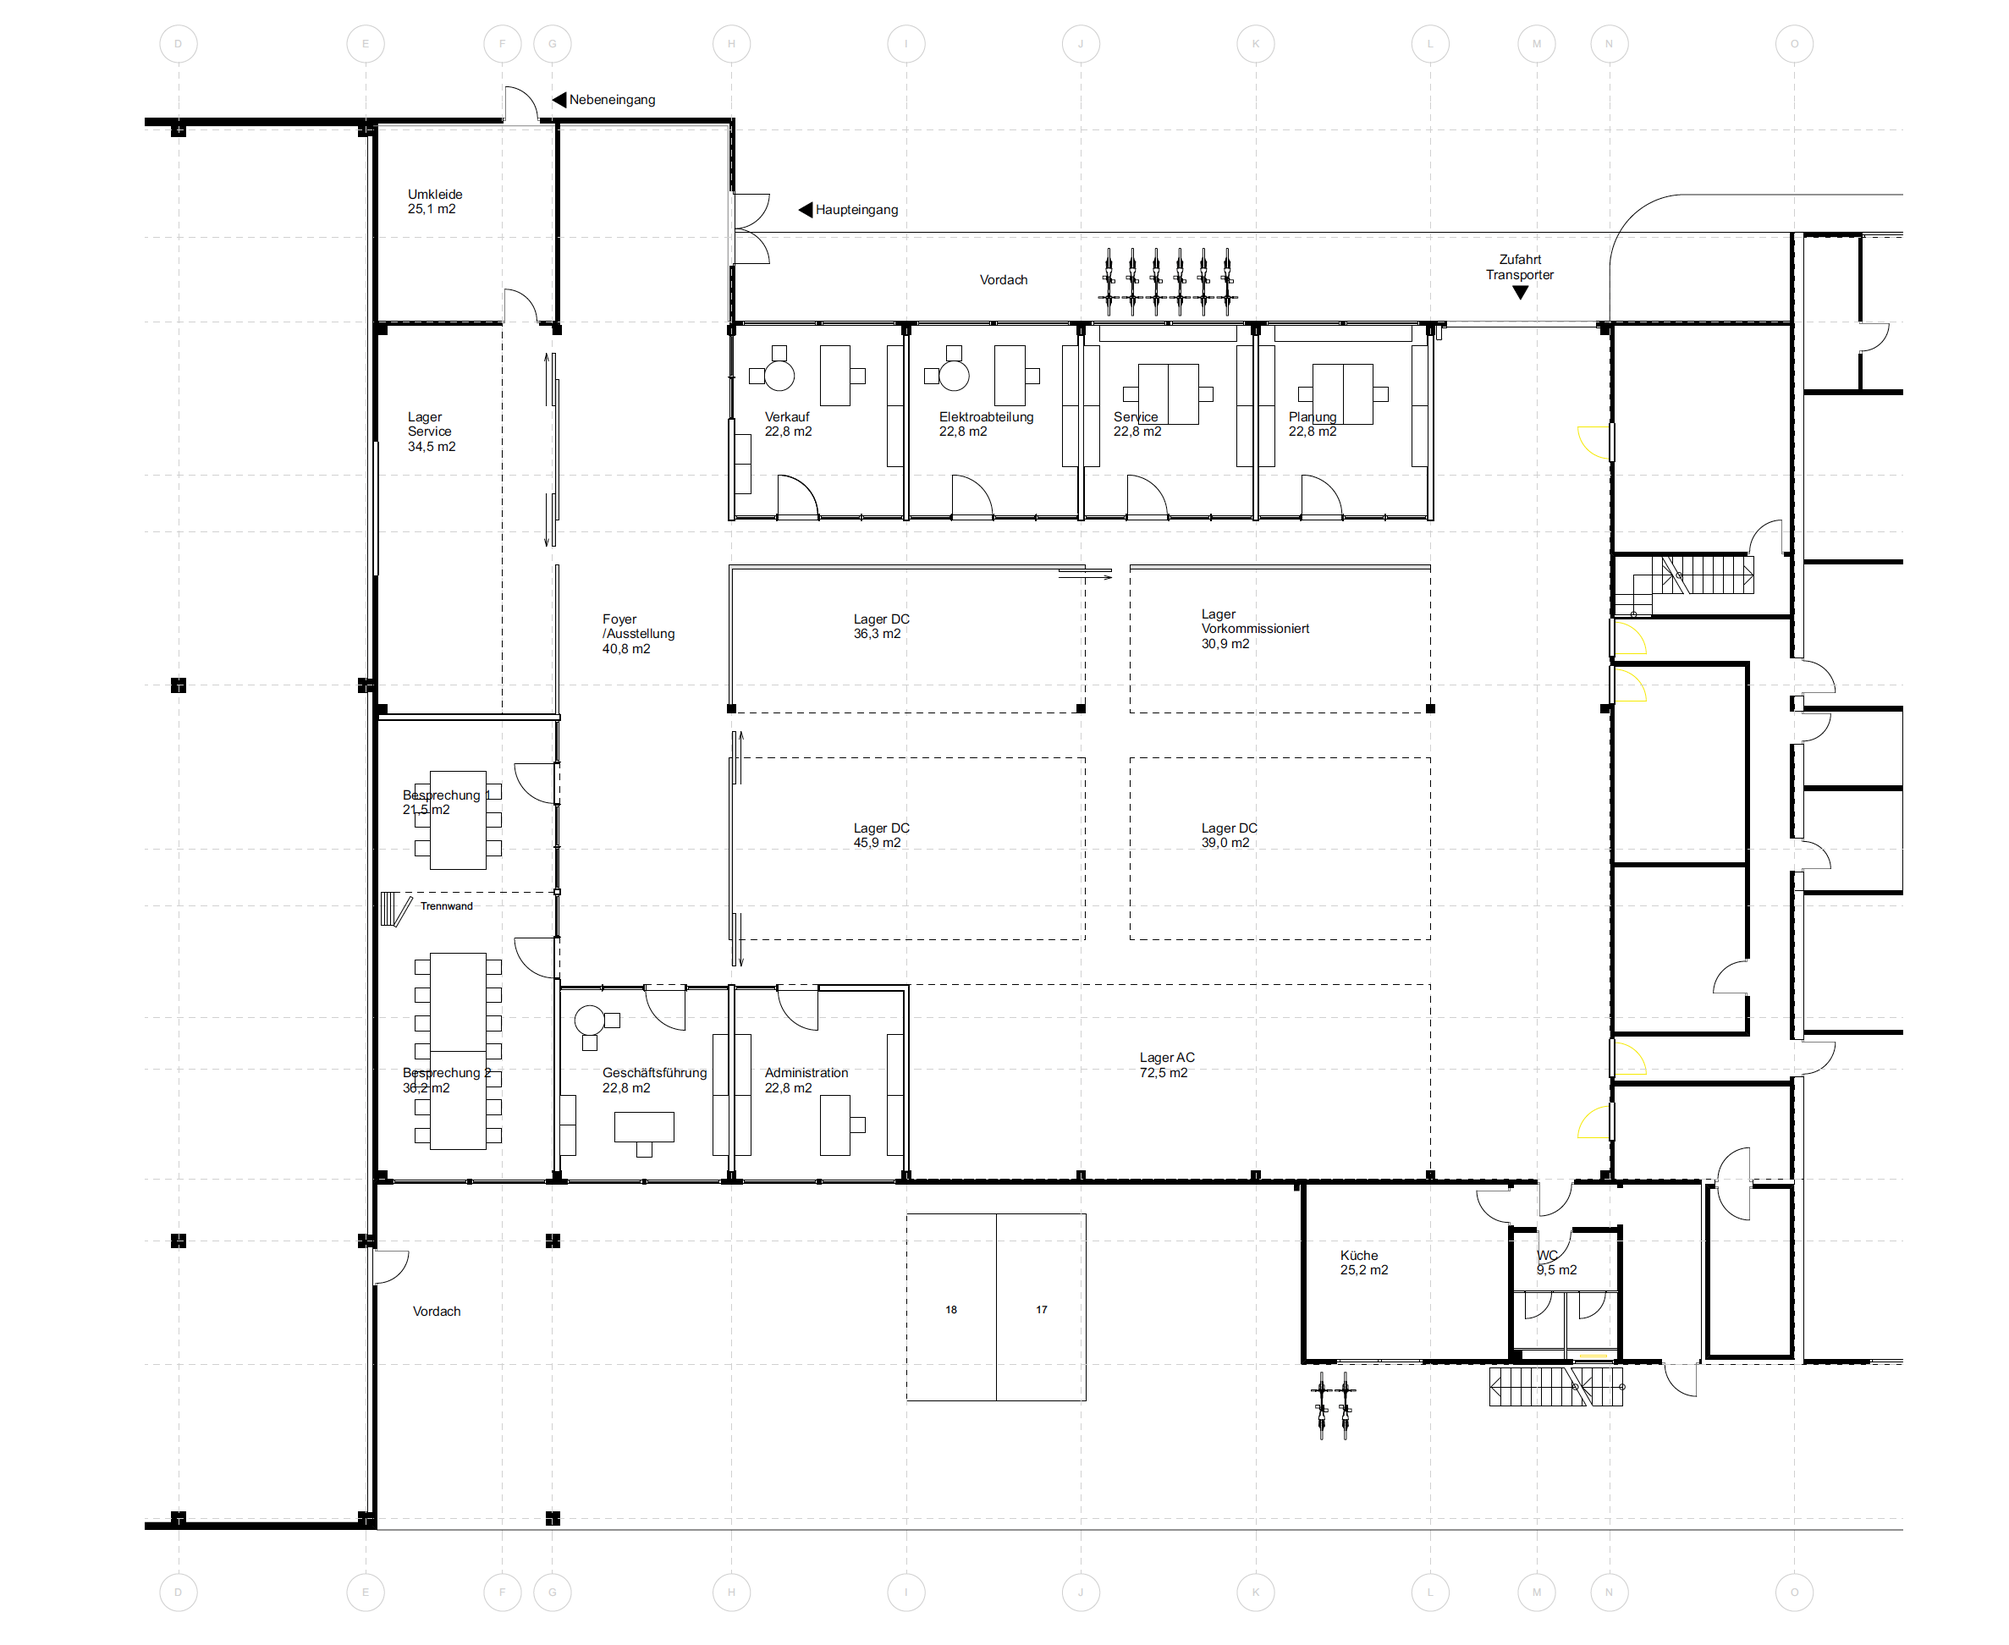
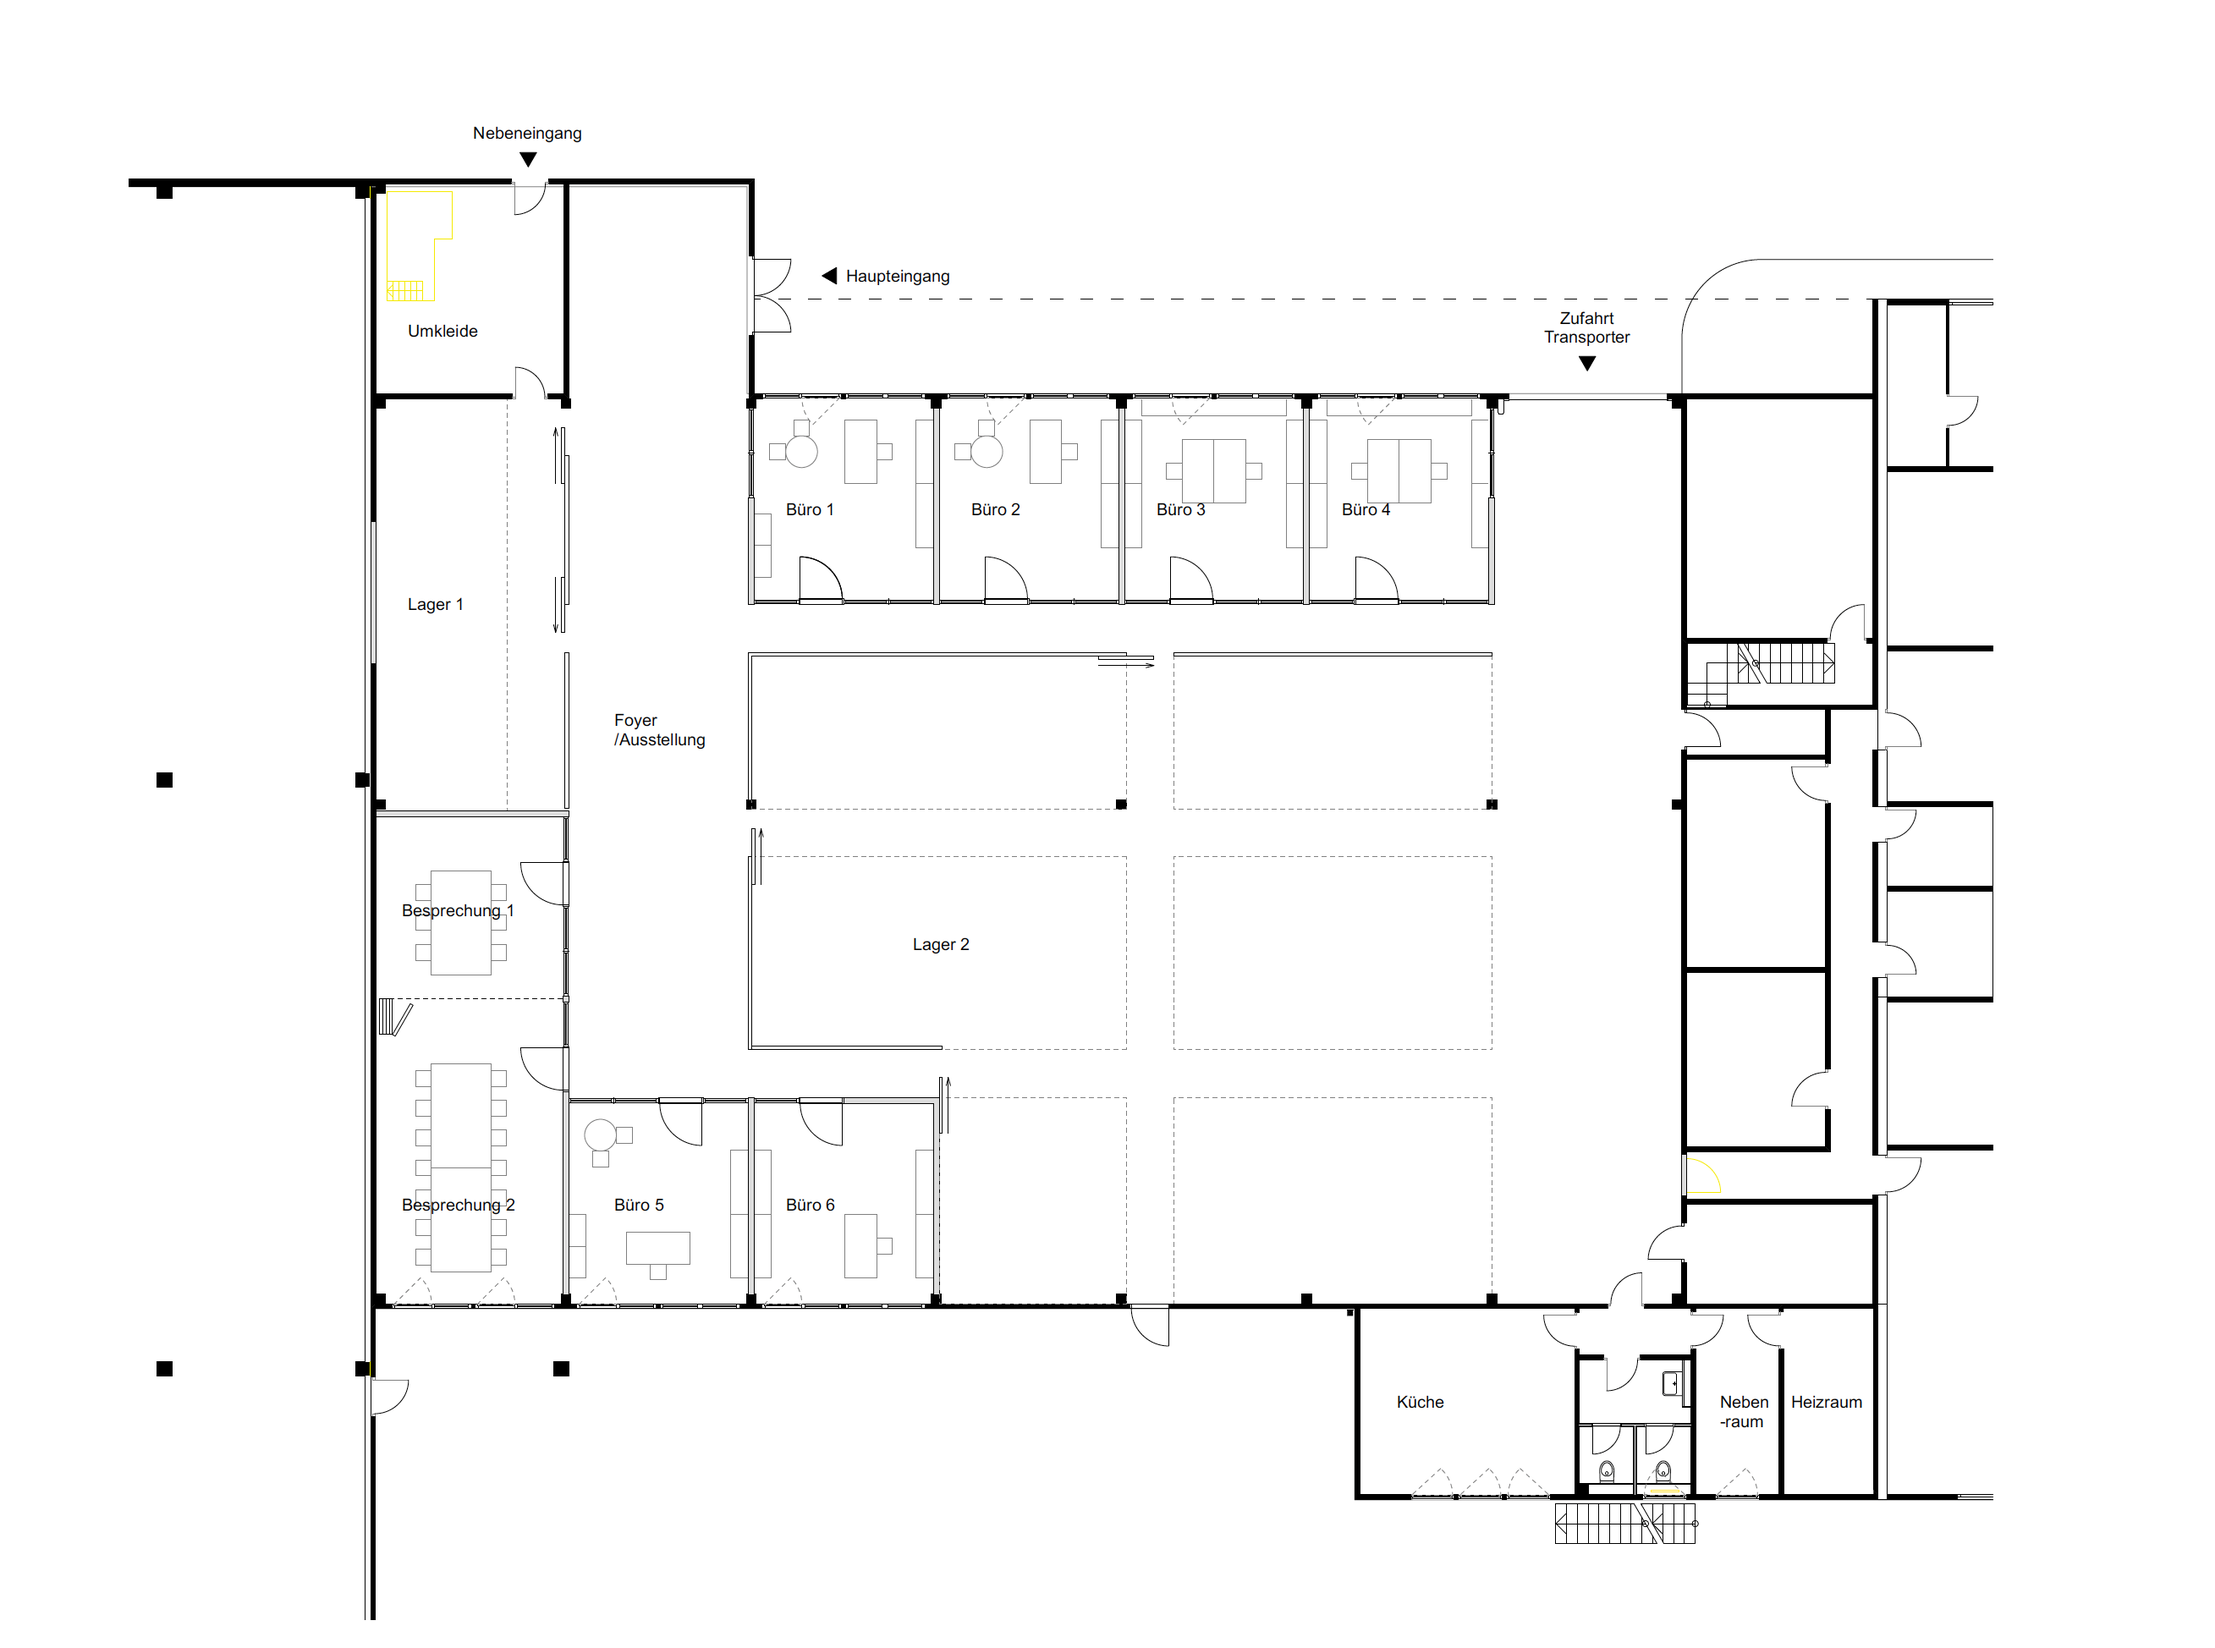
projektzeichnungen

diff --git a/public/de/projekte/druckerei/druckerei/index.html b/public/de/projekte/druckerei/druckerei/index.html
@@ -29,6 +29,9 @@
             <a href="/de/studio/">Studio</a>
           </li>
           <li >
+            <a href="/de/leistungen/">Leistungen</a>
+          </li>
+          <li >
             <a href="/de/projekte/">Projekte</a>
           </li>
       </ul>
@@ -105,6 +108,13 @@
 <br>
 <p>Der Umbau einer ehemaligen Druckerei zu einem Firmensitz verbindet bestehende industrielle Strukturen mit neuen funktionalen Anforderungen. Büro- und Lagerflächen wurden klar organisiert und behutsam in den Bestand integriert.</p>
 <br>
+<!--
+<figure style="margin: 0; width: fit-content;">
+  <img src="/images/projekte/druckerei/gr_bv.png" alt="Grundriss Bestand" style="width: 100%; height: auto; display: block; border-radius: 8px;">
+  <figcaption style="font-size: 12px; text-align: right; margin-top: 0.3em; width: 100%;">
+   Grundriss Bestand
+  </figcaption>
+</figure>-->
 <p>Kategorie: Bestand</p>
 <p>Nutzung: Firmensitz (Büros &amp; Lager)</p>
 <p>Ort: Königsbrunn</p>
@@ -190,6 +200,18 @@
       <a href="/images/projekte/druckerei/gr_af.png" class="gallery-item">
         <img src="/images/projekte/druckerei/gr_af.png" 
              alt="Grundriss - Neuplanung | Zeichnung: Bebynek Architektur" 
+             loading="lazy">
+      </a>
+
+    
+  
+    
+
+    
+
+      <a href="/images/projekte/druckerei/gr_bv.png" class="gallery-item">
+        <img src="/images/projekte/druckerei/gr_bv.png" 
+             alt="Grundriss - Bestand | Zeichnung: Bebynek Architektur" 
              loading="lazy">
       </a>
 

diff --git a/public/de/energieberatung/index.html b/public/de/energieberatung/index.html
@@ -29,6 +29,9 @@
             <a href="/de/studio/">Studio</a>
           </li>
           <li >
+            <a href="/de/leistungen/">Leistungen</a>
+          </li>
+          <li >
             <a href="/de/projekte/">Projekte</a>
           </li>
       </ul>
@@ -84,6 +87,7 @@
 <p>Die Baubranche ist für einen erheblichen Anteil des CO₂-Ausstoßes und der Müllproduktion verantwortlich. Viele Gebäude werden abgerissen und neu gebaut, weil dies oft schneller und einfacher erscheint. Doch die ökologischen Folgen sind erheblich – insbesondere die sogenannte „graue Energie“, die im Bauprozess von Materialien und Gebäuden steckt, muss berücksichtigt werden.</p>
 <p>Eine energetische Sanierung ermöglicht es, bestehende Gebäude effizienter zu nutzen, den Energieverbrauch zu senken, Kosten zu sparen und unabhängiger von steigenden Energiepreisen zu werden. Oft reichen schon einige gezielte Maßnahmen, um den Wohnkomfort deutlich zu erhöhen und gleichzeitig hohe Einsparungen bei den Energiekosten zu erzielen.</p>
 <br>
+<!--
 <p><strong>Meine Leistungen</strong></p>
 <p>Für Bestandsgebäude biete ich an:</p>
 <ul>
@@ -120,7 +124,8 @@
 <br>
 <p><strong>Kontakt</strong></p>
 <p>Vereinbaren Sie ein unverbindliches Erstgespräch, um Ihre Möglichkeiten zu besprechen.</p>
-<p><a href="/de/kontakt/">Jetzt Energieberatung anfragen</a></p>
+<p><a href="/de/kontakt/">Jetzt Energieberatung anfragen</a>
+&ndash;&gt;</p>
 
         
 

diff --git a/public/de/studio/index.html b/public/de/studio/index.html
@@ -29,6 +29,9 @@
             <a href="/de/studio/">Studio</a>
           </li>
           <li >
+            <a href="/de/leistungen/">Leistungen</a>
+          </li>
+          <li >
             <a href="/de/projekte/">Projekte</a>
           </li>
       </ul>
@@ -81,7 +84,7 @@
         <p style="font-size: 30px; font-weight: bold;">Studio</p>
 <p><strong>Bebynek Architektur</strong> ist ein Architekurbüro mit Schwerpunkt auf Denkmalpflege, Bauen im Bestand und Nachhaltigkeit.</p>
 <p>Die Projekte zeichnen sich durch sorgfältige Analyse, präzise Planung und eine reduzierte, zeitlose Formensprache aus. Ziel ist es, Bestehendes behutsam an heutige Anforderungen anzupassen und langfristig nutzbar zu machen.</p>
-<p>Die internationale Ausbildung der Büroinhaberin <a href="https://linkedin.com/in/aga-bebynek-bielanska-413b52172">Aga Bebynek-Bielanska</a> und ihre langjährige Berufserfahrung in Deutschland und Europa prägen die Arbeitsweise des Büros - präzise, zukunftsfähig und kontextbezogen.
+<p>Die internationale Ausbildung der Büroinhaberin Aga Bebynek-Bielanska <a href="https://linkedin.com/in/aga-bebynek-bielanska-413b52172">(LinkedIn Profil)</a> und ihre langjährige Berufserfahrung in Deutschland und Europa prägen die Arbeitsweise des Büros - präzise, zukunftsfähig und kontextbezogen.
 <br>
 <br></p>
 <figure style="margin: 0; width: fit-content;">

diff --git a/public/de/architektur/index.html b/public/de/architektur/index.html
@@ -29,6 +29,9 @@
             <a href="/de/studio/">Studio</a>
           </li>
           <li >
+            <a href="/de/leistungen/">Leistungen</a>
+          </li>
+          <li >
             <a href="/de/projekte/">Projekte</a>
           </li>
       </ul>
@@ -83,6 +86,10 @@
   <a href="/de/studio/" style="padding: 1.5rem; border: 1px solid #e0e0e0; border-radius: 8px; text-decoration: none; color: inherit;">
     <p style="font-size: 20px; font-weight: bold; margin: 0 0 0.5rem 0;">Studio</p>
     <p style="margin: 0; color: #666;">Profil und Schwerpunkte.</p>
+  </a>
+  <a href="/de/leistungen/" style="padding: 1.5rem; border: 1px solid #e0e0e0; border-radius: 8px; text-decoration: none; color: inherit;">
+    <p style="font-size: 20px; font-weight: bold; margin: 0 0 0.5rem 0;">Leistungen</p>
+    <p style="margin: 0; color: #666;">Übersicht der angebotenen Architekturleistungen.</p>
   </a>
   <a href="/de/projekte/" style="padding: 1.5rem; border: 1px solid #e0e0e0; border-radius: 8px; text-decoration: none; color: inherit;">
     <p style="font-size: 20px; font-weight: bold; margin: 0 0 0.5rem 0;">Projekte</p>

diff --git a/public/de/legal/index.html b/public/de/legal/index.html
@@ -29,6 +29,9 @@
             <a href="/de/studio/">Studio</a>
           </li>
           <li >
+            <a href="/de/leistungen/">Leistungen</a>
+          </li>
+          <li >
             <a href="/de/projekte/">Projekte</a>
           </li>
       </ul>
@@ -96,7 +99,7 @@
 
 
 
-<img src="/images/5.jpg" alt="">
+<img src="/images/3.jpg" alt="">
 
         
       </a>

diff --git a/public/datenschutz/index.html b/public/datenschutz/index.html
@@ -29,6 +29,9 @@
             <a href="/de/studio/">Studio</a>
           </li>
           <li >
+            <a href="/de/leistungen/">Leistungen</a>
+          </li>
+          <li >
             <a href="/de/projekte/">Projekte</a>
           </li>
       </ul>

diff --git a/public/de/404.html b/public/de/404.html
@@ -29,6 +29,9 @@
             <a href="/de/studio/">Studio</a>
           </li>
           <li >
+            <a href="/de/leistungen/">Leistungen</a>
+          </li>
+          <li >
             <a href="/de/projekte/">Projekte</a>
           </li>
       </ul>

diff --git a/public/de/categories/index.html b/public/de/categories/index.html
@@ -29,6 +29,9 @@
             <a href="/de/studio/">Studio</a>
           </li>
           <li >
+            <a href="/de/leistungen/">Leistungen</a>
+          </li>
+          <li >
             <a href="/de/projekte/">Projekte</a>
           </li>
       </ul>

diff --git a/public/de/index.html b/public/de/index.html
@@ -30,6 +30,9 @@
             <a href="/de/studio/">Studio</a>
           </li>
           <li >
+            <a href="/de/leistungen/">Leistungen</a>
+          </li>
+          <li >
             <a href="/de/projekte/">Projekte</a>
           </li>
       </ul>

diff --git a/public/de/journal/index.html b/public/de/journal/index.html
@@ -29,6 +29,9 @@
             <a href="/de/studio/">Studio</a>
           </li>
           <li >
+            <a href="/de/leistungen/">Leistungen</a>
+          </li>
+          <li >
             <a href="/de/projekte/">Projekte</a>
           </li>
       </ul>

diff --git a/public/de/journal/weihnachten/index.html b/public/de/journal/weihnachten/index.html
@@ -29,6 +29,9 @@
             <a href="/de/studio/">Studio</a>
           </li>
           <li >
+            <a href="/de/leistungen/">Leistungen</a>
+          </li>
+          <li >
             <a href="/de/projekte/">Projekte</a>
           </li>
       </ul>

diff --git a/public/de/kontakt/index.html b/public/de/kontakt/index.html
@@ -29,6 +29,9 @@
             <a href="/de/studio/">Studio</a>
           </li>
           <li >
+            <a href="/de/leistungen/">Leistungen</a>
+          </li>
+          <li >
             <a href="/de/projekte/">Projekte</a>
           </li>
       </ul>
